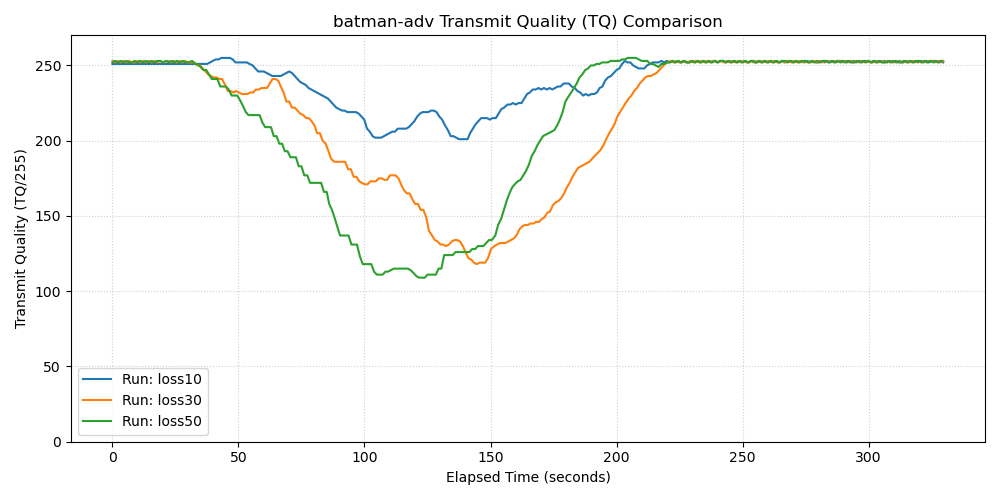
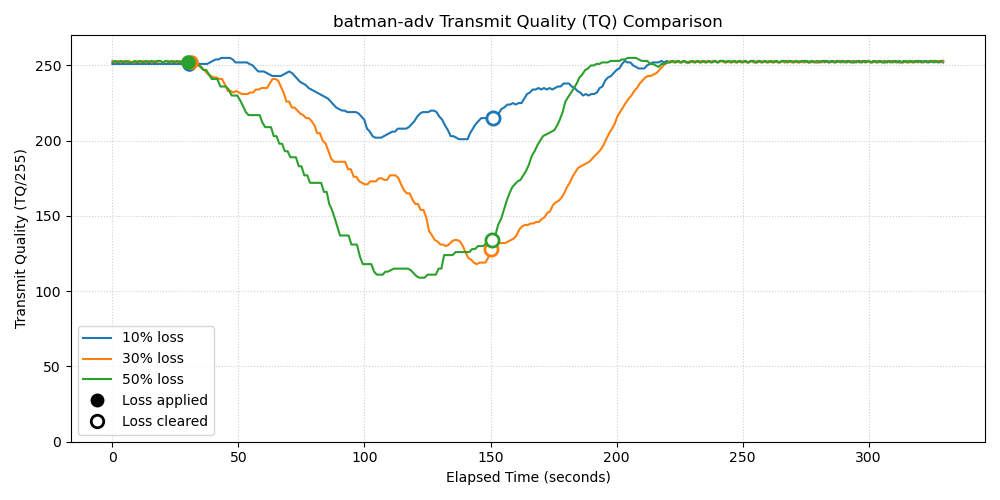
Updated plot adding clarity on loss points

diff --git a/virtual-mesh/orchestrator/plot_results.py b/virtual-mesh/orchestrator/plot_results.py
@@ -4,6 +4,7 @@ import glob
 import pandas as pd
 import matplotlib.pyplot as plt
 import os
+from matplotlib.lines import Line2D
 
 def generate_comparison_plot():
     csv_files = glob.glob("TQ_EXPS/TQ_EXP_loss*.csv")
@@ -16,15 +17,30 @@ def generate_comparison_plot():
     for file in sorted(csv_files):
         df =pd.read_csv(file)
         #extract the run name for the chart legend
-        run_label = os.path.basename(file).replace("TQ_EXP_", "").replace(".csv", "")
-        plt.plot(df["time_s"], df["TQ"], label=f"Run: {run_label}")
+        run_label = os.path.basename(file).replace("TQ_EXP_loss", "").replace(".csv", "")
+        line, = plt.plot(df["time_s"], df["TQ"], label=f"{run_label}% loss")
+
+        # Marks where loss is applied and unapplied
+        on_row = df[df["loss_pct"] > 0].iloc[0]
+        off_row = df[(df["time_s"] > on_row["time_s"]) & (df["loss_pct"] == 0)].iloc[0]
+
+        # Filled dot = on & Open = off
+        plt.scatter(on_row["time_s"], on_row["TQ"], s = 90, color = line.get_color(), zorder = 3)
+        plt.scatter(off_row["time_s"], off_row["TQ"], s = 90, facecolors = "white", edgecolors = line.get_color(), linewidths = 2,zorder = 3)
+
+        # build the key: the three lines plus one entry for each dot type
+        handles, labels = plt.gca().get_legend_handles_labels()
+        handles.append(Line2D([0], [0], marker = "o", color = "none", markerfacecolor = "black", markeredgecolor = "black", markersize = 9))
+        labels.append("Loss applied")
+        handles.append(Line2D([0], [0], marker = "o", color = "none", markerfacecolor = "white", markeredgecolor = "black", markeredgewidth = 2, markersize = 9))
+        labels.append("Loss cleared")
 
     plt.title("batman-adv Transmit Quality (TQ) Comparison")
     plt.xlabel("Elapsed Time (seconds)")
     plt.ylabel("Transmit Quality (TQ/255)")
     plt.ylim(0, 270)
     plt.grid(True, linestyle=":", alpha=0.6)
-    plt.legend(loc="lower left")
+    plt.legend(handles, labels, loc="lower left")
 
     output_img = "TQ_EXPS/TQ_Comparison_Plot.png"
     plt.tight_layout()
